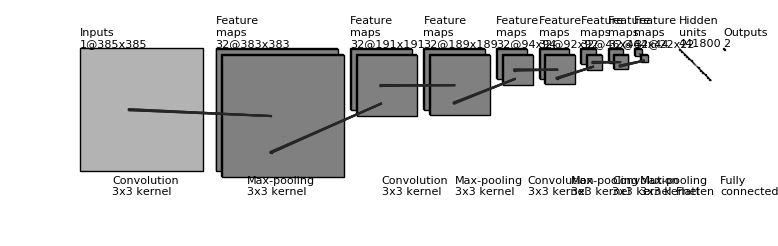
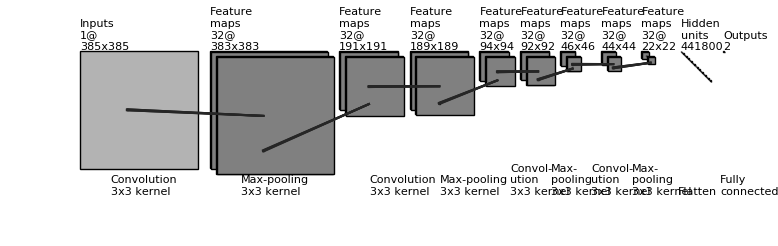
Adjusted the 4 layer CNN making the spacing better

diff --git a/draw_convnet.py b/draw_convnet.py
@@ -157,7 +157,7 @@ if __name__ == '__main__':
     # conv layers
     layer_sizes = [385, 191, 94, 46, 22] # Resolution of the layer. It is assumed that max pooling will accur between each layer
     convFilterSize = [3,3,3,3]
-    lowerTextVerticalOffset = -460
+    lowerTextVerticalOffset = -470
     num_list = [1, 32, 32, 32, 32, 32, 32, 32, 32] # Number of feature maps
 
     #Define the resolution of each layer
@@ -170,8 +170,13 @@ if __name__ == '__main__':
     # Seperation between each maps
     x_diff_list = [0]
     for i in range(len(layer_sizes)-1):
-        x_diff_list.append(layer_width+layer_sizes[i])
-        x_diff_list.append(layer_width+layer_sizes[i]-convFilterSize[i])
+        if layer_sizes[i] < 150:
+            x_diff_list.append(layer_width+layer_sizes[i] + 0)
+            x_diff_list.append(layer_width+layer_sizes[i]-convFilterSize[i] + 0)
+            
+        x_diff_list.append(layer_width+layer_sizes[i]+0)
+        x_diff_list.append(layer_width+layer_sizes[i]-convFilterSize[i]+0)
+    print(x_diff_list, '\nLayer widith = ', layer_width)
 
     text_list = ['Inputs'] + ['Feature\nmaps'] * (len(size_list) - 1)
     loc_diff_list = [[3, -3]] * len(size_list)
@@ -191,7 +196,7 @@ if __name__ == '__main__':
             add_layer(patches, colors, size=size_list[ind],
                       num=num_show_list[ind],
                       top_left=top_left_list[ind], loc_diff=loc_diff_list[ind])
-        label(top_left_list[ind], text_list[ind] + '\n{}@{}x{}'.format(
+        label(top_left_list[ind], text_list[ind] + '\n{}@\n{}x{}'.format(
             num_list[ind], size_list[ind][0], size_list[ind][1]))
 
     ############################
@@ -200,7 +205,7 @@ if __name__ == '__main__':
     end_ratio_list = [[0.4, 0.5], [0.4, 0.8], [0.4, 0.5], [0.4, 0.8], [0.4, 0.5], [0.4, 0.8], [0.4, 0.5], [0.4, 0.8]] # Alters the positions of the filter lines
     patch_size_list = [(3, 3), (3, 3), (3, 3), (3, 3), (3, 3), (3, 3), (3, 3), (3, 3)] # Filter size for the tiny square
     ind_bgn_list = range(len(patch_size_list))
-    text_list = ['Convolution', 'Max-pooling', 'Convolution', 'Max-pooling', 'Convolution', 'Max-pooling', 'Convolution', 'Max-pooling']
+    text_list = ['Convolution', 'Max-pooling', 'Convolution', 'Max-pooling', 'Convol-\nution', 'Max-\npooling', 'Convol-\nution', 'Max-\npooling']
 
     for ind in range(len(patch_size_list)):
         add_mapping(
@@ -218,7 +223,7 @@ if __name__ == '__main__':
     size_list = [(fc_unit_size, fc_unit_size)] * 2 # Size of squares for fcl * the_number_of_fully_connected_layers
     num_list = [50*94*94, 2, 2]
     num_show_list = list(map(min, num_list, [NumFcMax] * len(num_list)))
-    x_diff_list = [sum(x_diff_list) + 100 + layer_width, layer_width+100, layer_width]
+    x_diff_list = [sum(x_diff_list) - 250 + layer_width, layer_width+100, layer_width] # Not sure why but an offset of -250 stops the flatten from zooming away
     top_left_list = np.c_[np.cumsum(x_diff_list), np.zeros(len(x_diff_list))]
     loc_diff_list = [[fc_unit_size, -fc_unit_size]] * len(top_left_list)
     text_list = ['Hidden\nunits'] * (len(size_list) - 1) + ['Outputs']
